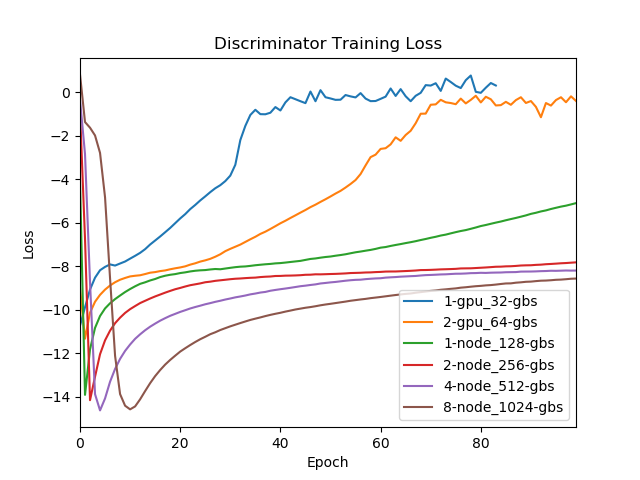
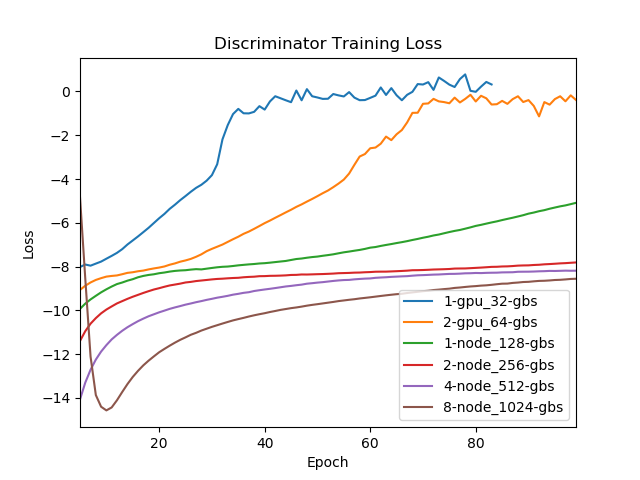
clip loss curves

diff --git a/ddp_aae_experiments/generate_loss_curves.py b/ddp_aae_experiments/generate_loss_curves.py
@@ -15,6 +15,9 @@ if __name__ == "__main__":
 
     csv_files = [Path(p) / "loss.json" for p in paths]
 
+    # Epoch to start plotting from so the end behavior is more clearly shown
+    start_epoch = 5
+
     # For testing
     # csv_files = [Path("./test.json").resolve()]
 
@@ -37,7 +40,7 @@ if __name__ == "__main__":
         df = pd.DataFrame(
             {p.parent.name: loss for p, loss in zip(csv_files, loss_type)}
         )
-        df.plot(legend=True)
+        df[start_epoch:].plot(legend=True)
         plt.title(title)
         plt.xlabel("Epoch")
         plt.ylabel("Loss")
